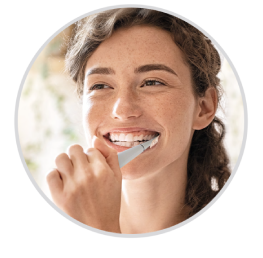
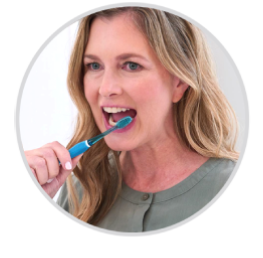
finished toothbrush main page edits

diff --git a/src/routes/Toothbrush/Toothbrush.styles.ts b/src/routes/Toothbrush/Toothbrush.styles.ts
@@ -76,24 +76,12 @@ export const RecommendedWrapper = styled.div`
   flex: 1;
   display: flex;
   align-items: center;
-
-  h3 {
-    font-family: "Gotham", sans-serif;
-    color: ${colors.primary};
-    font-weight: 300;
-    font-size: clamp(28px, 1.6vw, 3.2rem);
-    margin-top: 1.2rem;
-    margin-left: 1.2rem;
-
-    sup {
-      font-size: 10px;
-    }
-  }
 `;
 
 export const Recommended = styled.img`
-  width: 42%;
+  width: 92%;
   height: auto;
+  margin-bottom: -12px;
 `;
 
 export const LinksWrapper = styled.div`

diff --git a/src/routes/Toothbrush/Toothbrush.tsx b/src/routes/Toothbrush/Toothbrush.tsx
@@ -3,12 +3,12 @@ import InnerNav from "../../components/InnerNav/InnerNav";
 import { Outlet, useLocation } from "react-router-dom";
 import ModuleContainer from "../../components/ModuleContainer/ModuleContainer";
 
-import Col1Row2 from "../../assets/toothbrush/crest.webp";
 import PatientNeeds2 from "../../assets/toothbrush/PN.png";
 import Technology2 from "../../assets/toothbrush/Tech.png";
 import Brushes from "../../assets/toothbrush/toothbrush-new.webp";
 
 import PatientBG from "../../assets/toothbrush/patient/PatientBG.webp";
+import BrushesCrest from "../../assets/toothbrush/brushes-crest.png";
 
 const toothbrushNavItems = [
   {
@@ -51,14 +51,7 @@ export default function Toothbrush() {
                 </S.IntroTitle>
               </S.IntroTitleWrapper>
               <S.RecommendedWrapper>
-                <S.Recommended src={Col1Row2} />
-                <h3>
-                  Recommandée
-                  <br /> au&nbsp;Canada&nbsp;par&nbsp;les
-                  <br />
-                  hygiénistes&nbsp;dentaires
-                  <sup>7</sup>
-                </h3>
+                <S.Recommended src={BrushesCrest} alt="Recommandée au Canada" />
               </S.RecommendedWrapper>
 
               <S.LinksWrapper>